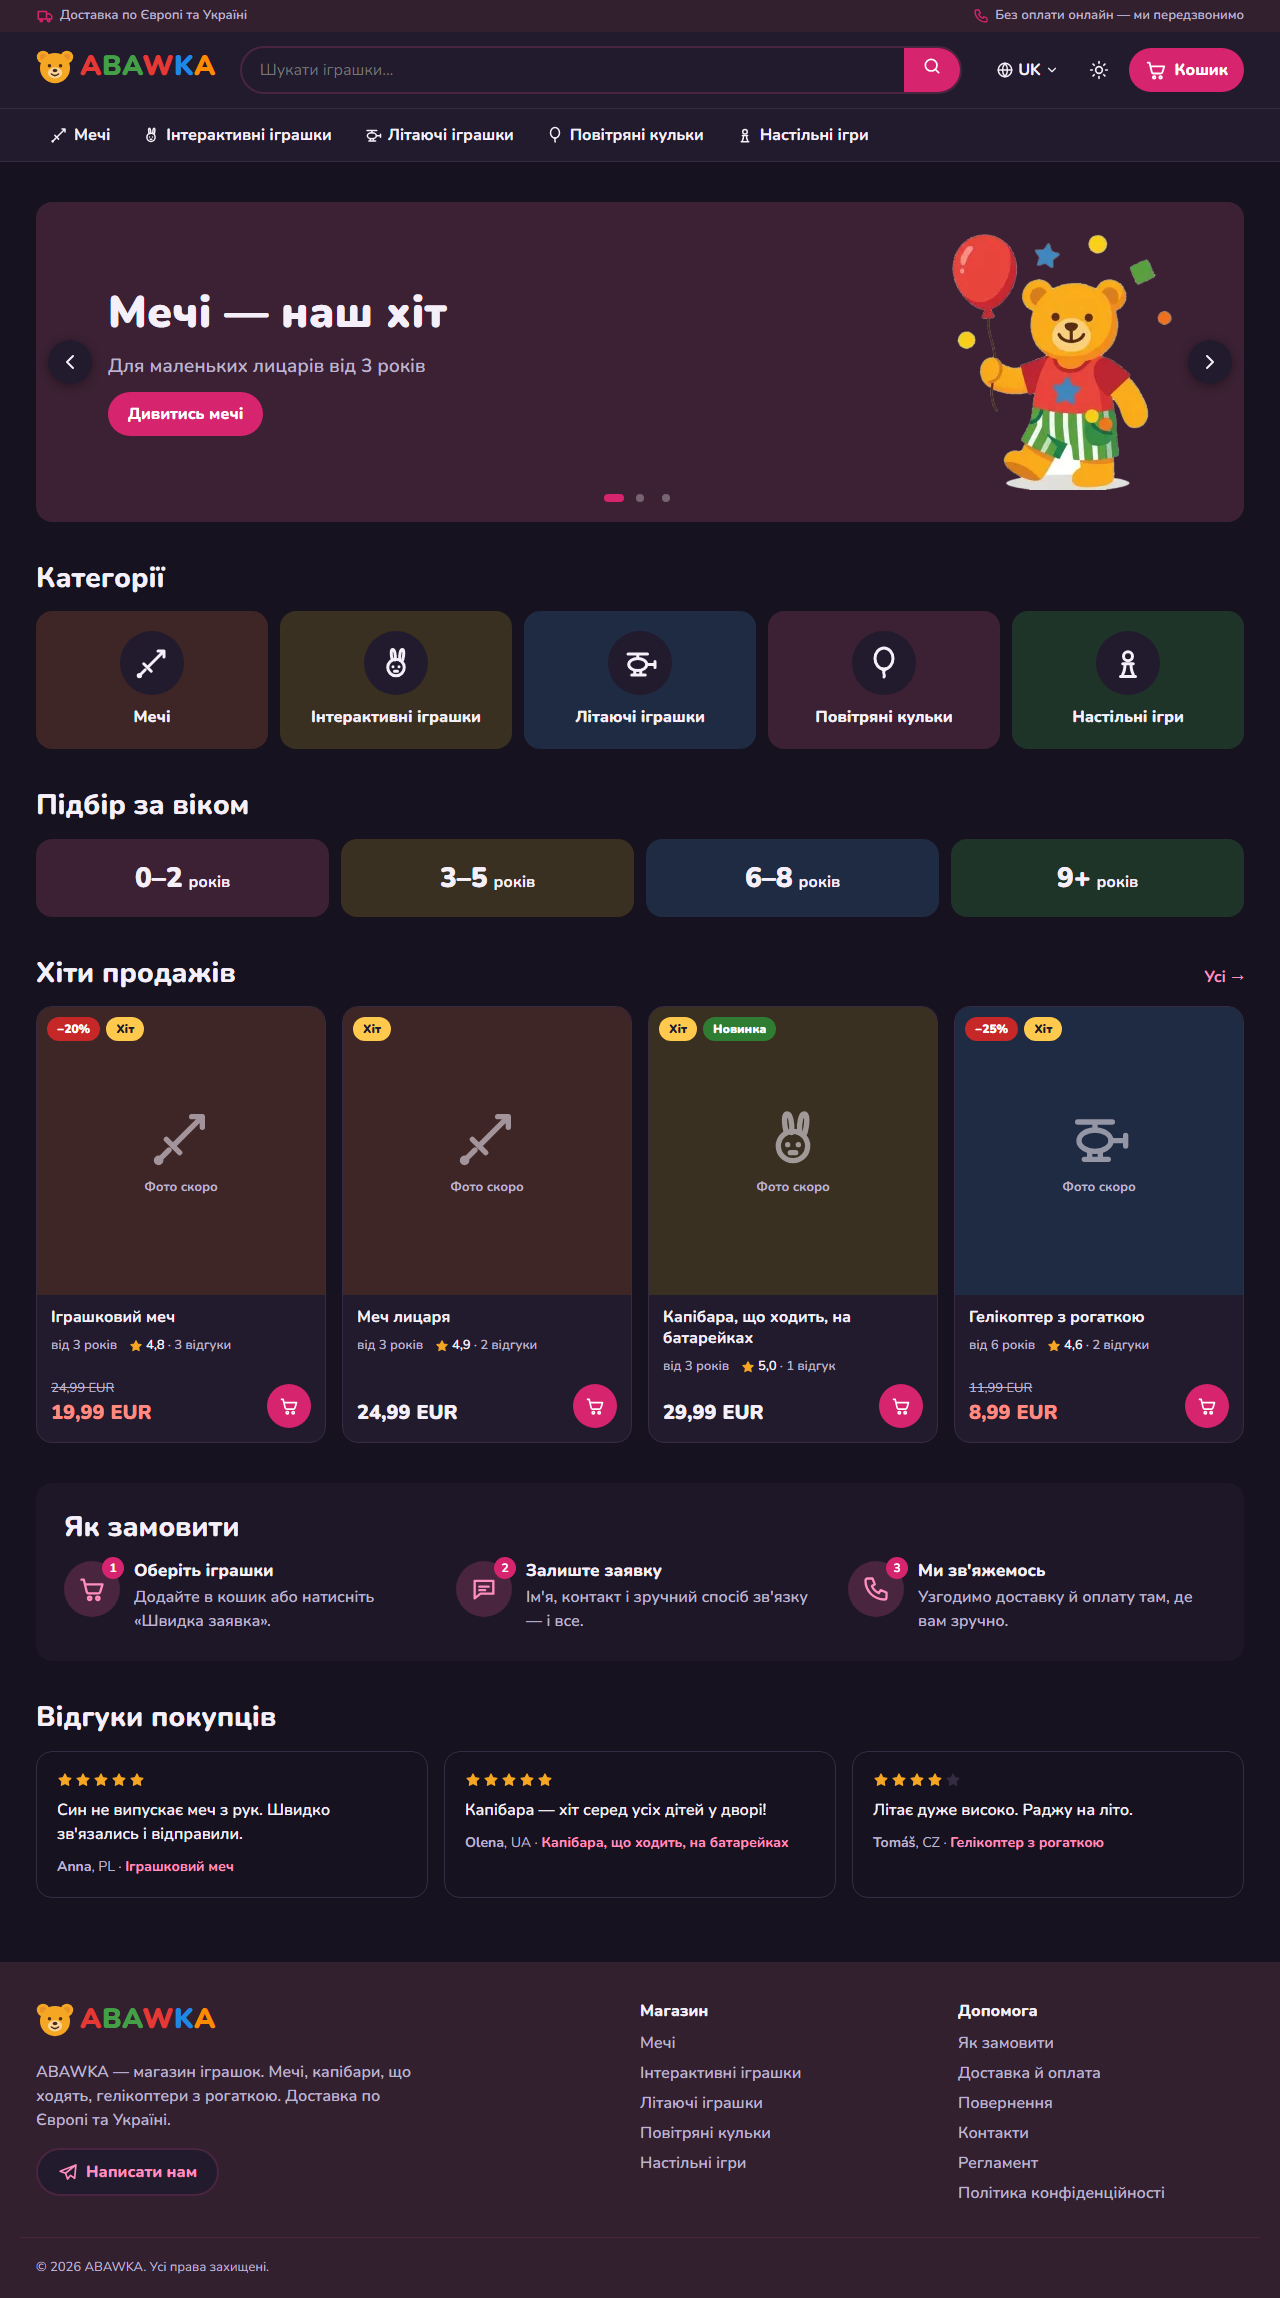
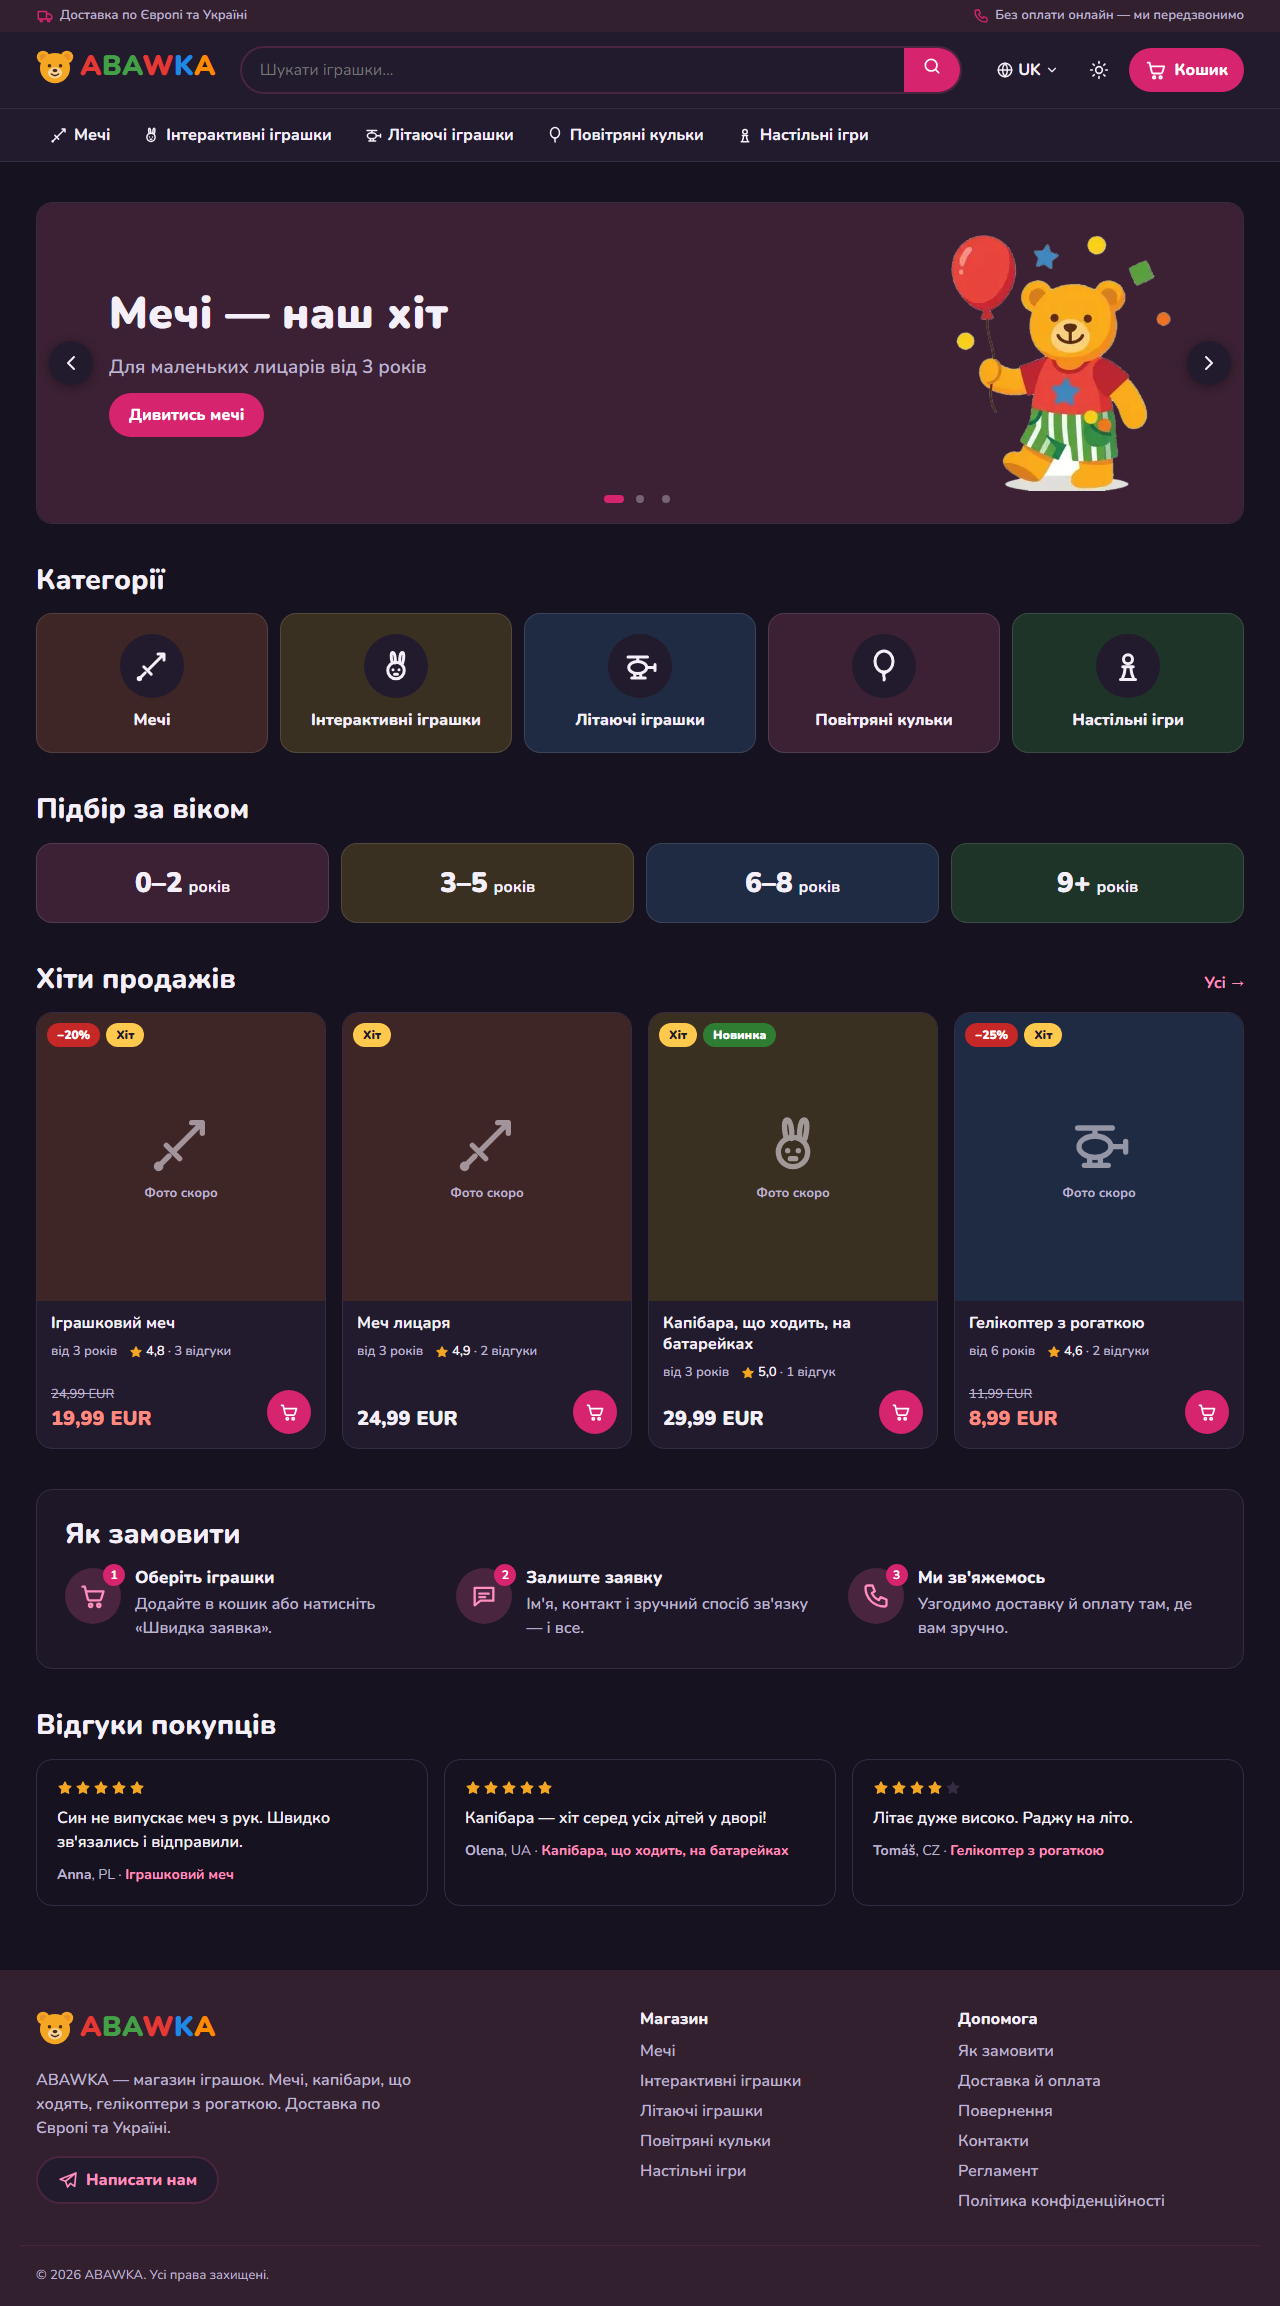
Outline coloured tiles, fix clipped hover on scrollable categories
Hero slider, category and age tiles get a translucent 1px border that
reads as a darker shade of each tile's own colour, in both themes.
Category row on narrow screens gets room so a lifted tile and its
shadow are no longer cut off by the scroll container.

diff --git a/tests/e2e/home.spec.ts b/tests/e2e/home.spec.ts
@@ -138,6 +138,28 @@ test.describe('dark theme', () => {
   });
 });
 
+test('coloured tiles have an outline in both themes', async ({ browser }) => {
+  for (const colorScheme of ['light', 'dark'] as const) {
+    const page = await browser.newPage({ colorScheme });
+    await page.goto('/en/');
+    for (const sel of ['.hero', '.cat', '.age']) {
+      const border = await page.locator(sel).first().evaluate((e) => getComputedStyle(e).borderTopWidth);
+      expect(border, `${sel} in ${colorScheme}`).toBe('1px');
+    }
+    await page.close();
+  }
+});
+
+test('hovered category tile is not clipped by its scroll container', async ({ page }) => {
+  await page.setViewportSize({ width: 730, height: 900 });
+  await page.goto('/en/');
+  const tile = page.locator('.cat').nth(1);
+  await tile.hover();
+  await page.waitForTimeout(300);
+  const [t, g] = await Promise.all([tile.boundingBox(), page.locator('.cat-grid').boundingBox()]);
+  expect(t!.y).toBeGreaterThanOrEqual(g!.y);
+});
+
 test('currency switch stays hidden until prices can be converted', async ({ page }) => {
   await page.goto('/en/');
   await expect(page.locator('[data-currency-label]')).toHaveCount(0);

diff --git a/src/styles/global.css b/src/styles/global.css
@@ -35,6 +35,8 @@
   --bg-soft: light-dark(#faf7fb, #1d1727);
   --surface: light-dark(#ffffff, #221b2d); /* картки, шапка, меню */
   --dot: light-dark(rgb(31 27 46 / 0.25), rgb(255 255 255 / 0.3));
+  /* Контур кольорових плиток: напівпрозорий, тож на кожному фоні виходить темніший відтінок того ж кольору. */
+  --tile-border: light-dark(rgb(31 27 46 / 0.12), rgb(255 255 255 / 0.12));
 
   --radius: 16px;
   --radius-sm: 10px;
